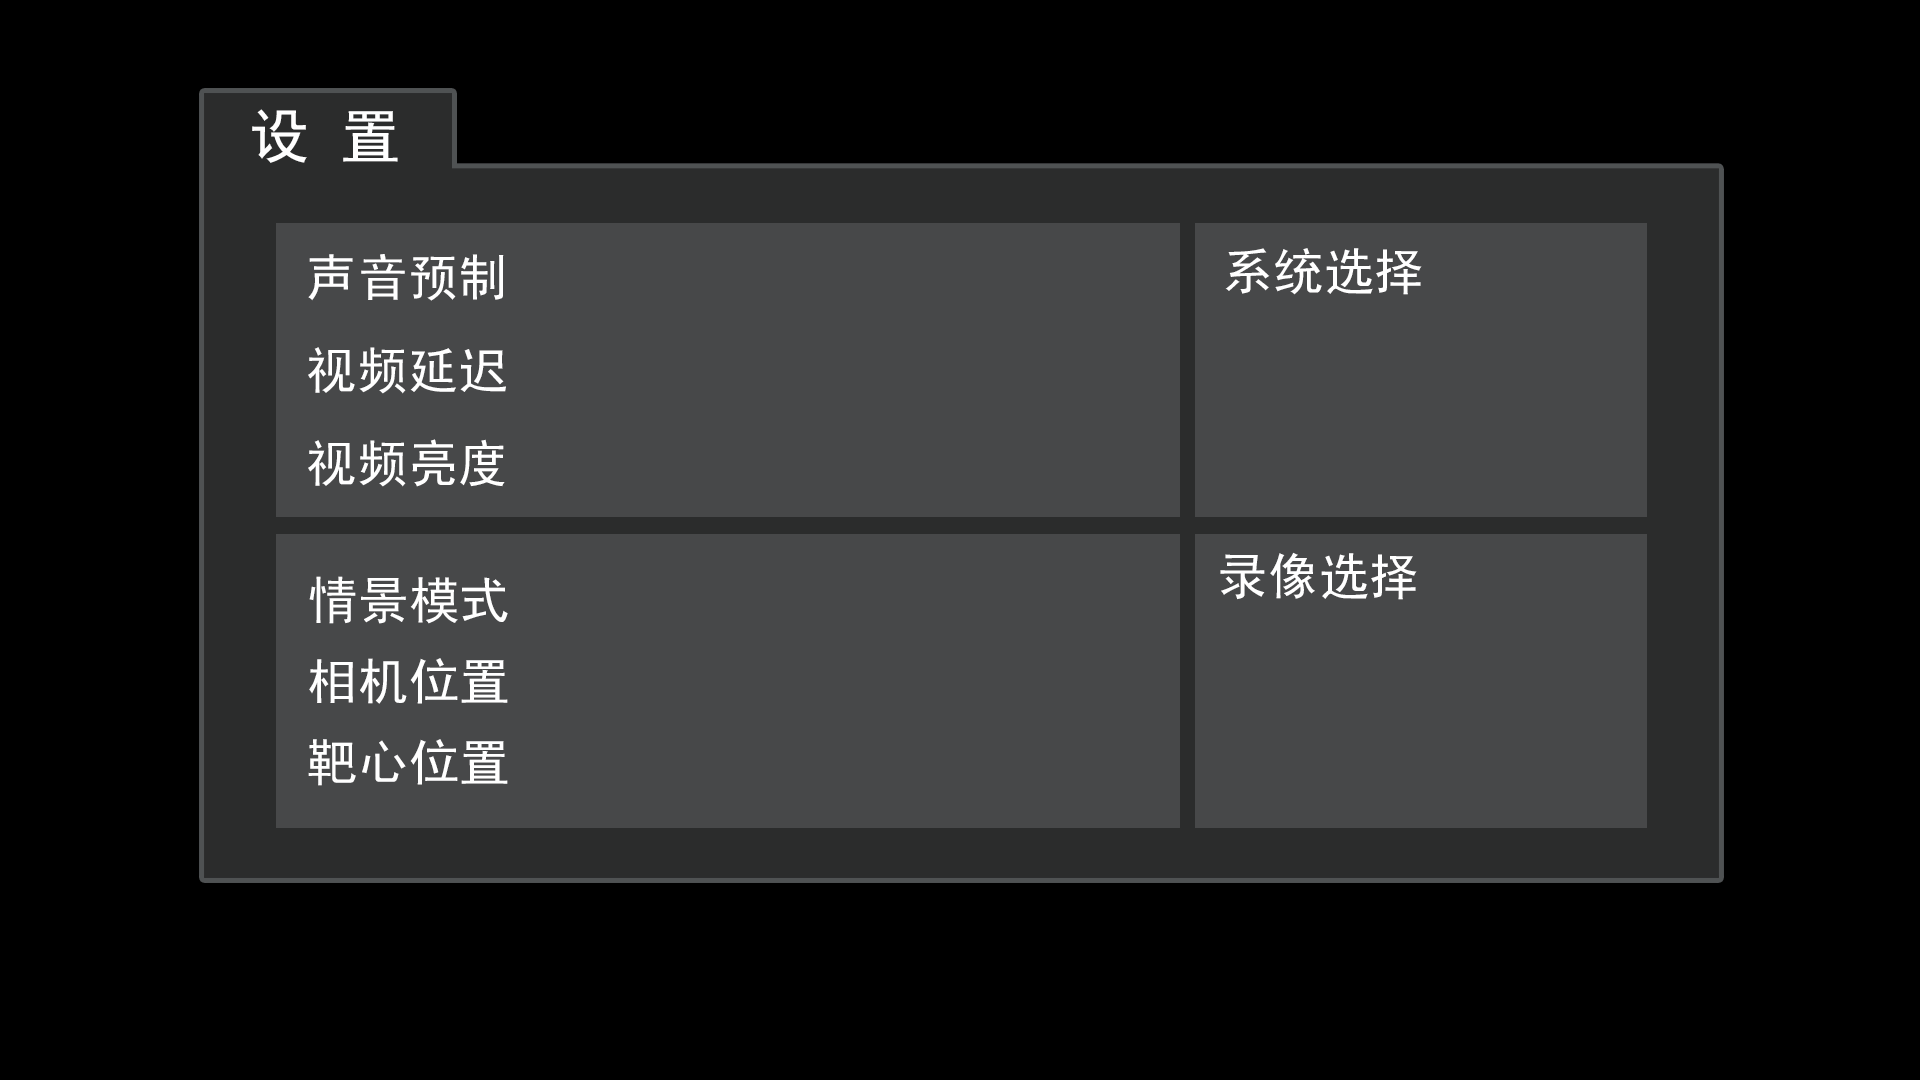
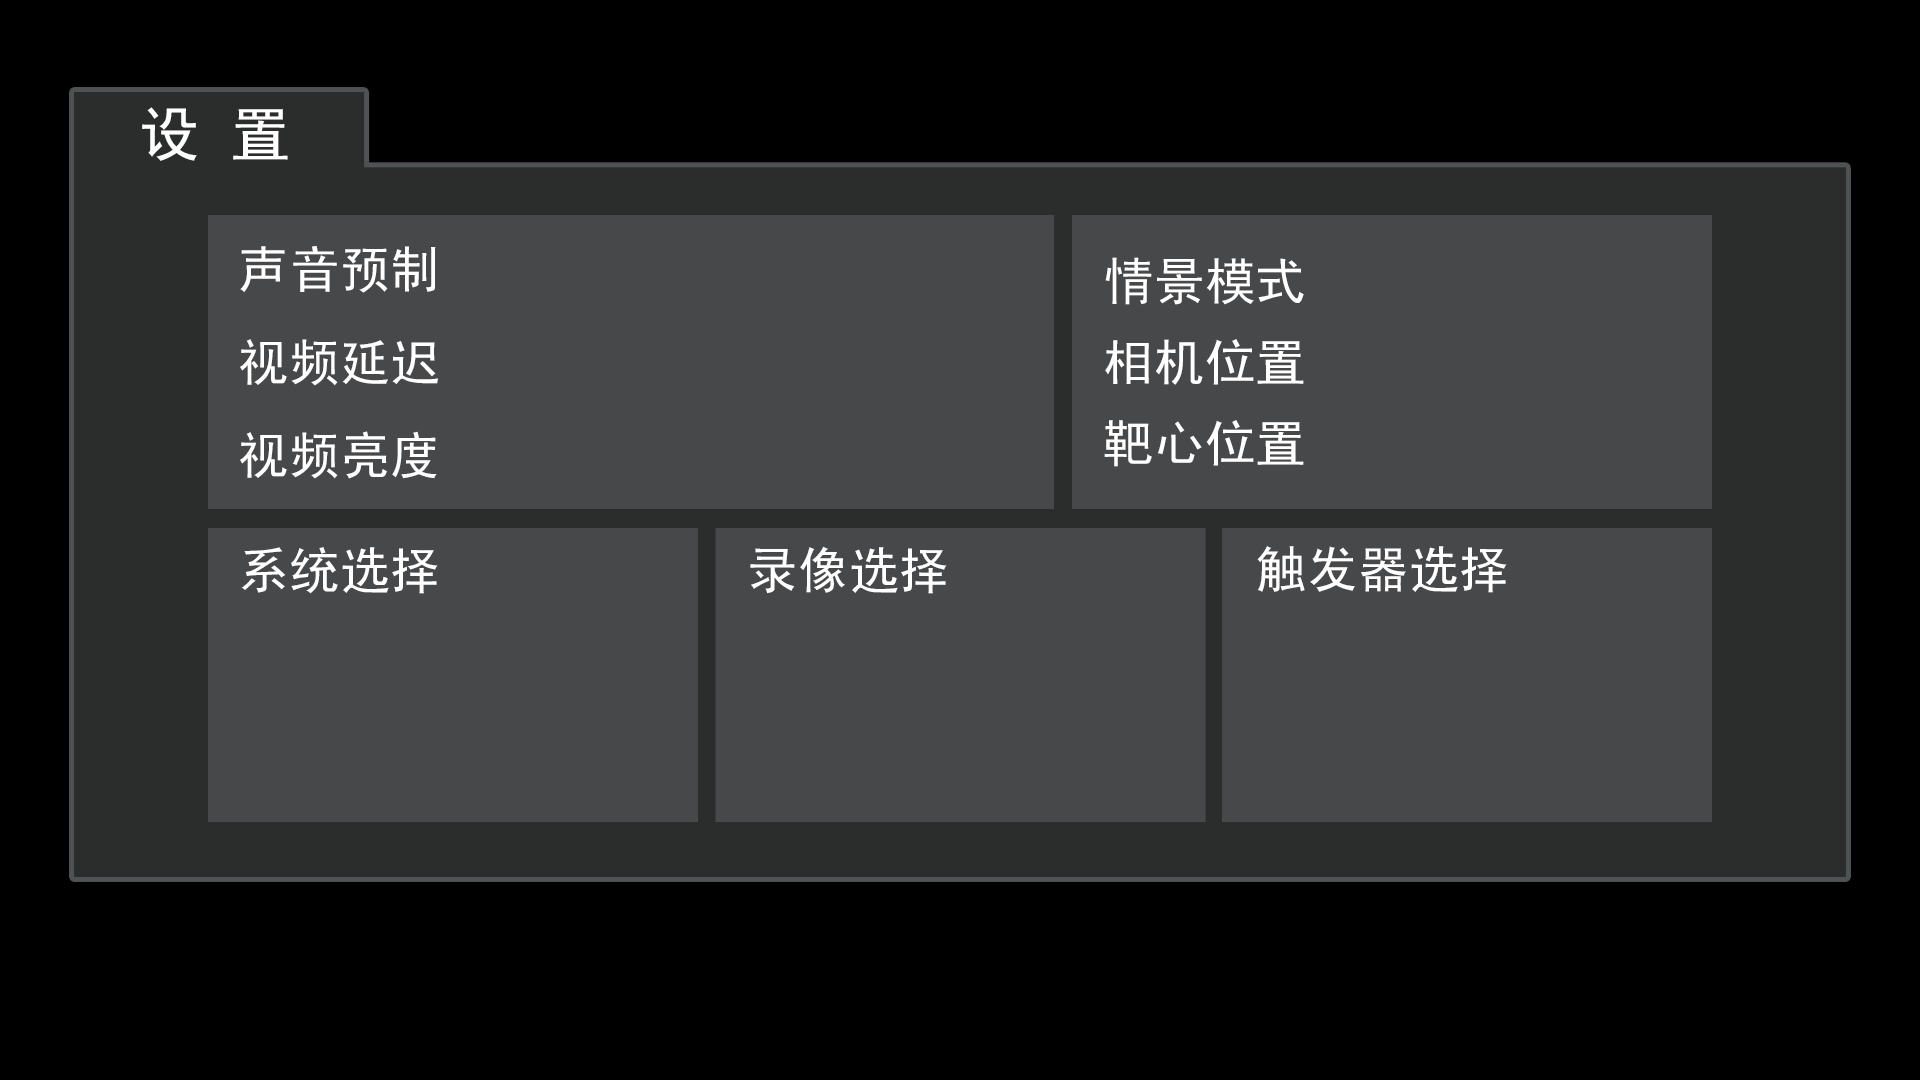
更新设置界面的UI

Changed region(s): [[0.0312, 0.0611, 0.9688, 0.825]]

diff --git a/Classes/MovieVideoLayer.cpp b/Classes/MovieVideoLayer.cpp
@@ -173,11 +173,39 @@ void MovieVideoLayer::RecordOk()
 		m_FrameImageHead = m_Camera->getBufferByIndex(curIndex)->FrameHead;
 		try
 		{
-			CameraImageProcess(m_Camera->m_hCamera,
+			printf("curIndex		= %d\n",curIndex);
+			printf("uBytes			= %d\n",m_FrameImageHead.uBytes);
+			int CameraError = CameraImageProcess(m_Camera->m_hCamera,
 				m_Camera->getBufferByIndex(curIndex)->FrameData,
 				m_pFrameImageRGB,
 				&m_FrameImageHead);
 			swap(m_pFrameImageRGB, m_VideoList[i]);
+			if(CameraError == -6)
+			{
+				printf("curIndex		= %d\n",curIndex);
+				printf("CameraError		= %d\n",CameraError);
+				printf("CameraHandle	= %d\n",m_Camera->m_hCamera);
+				printf("inFrameData		= %x\n",m_Camera->getBufferByIndex(curIndex)->FrameData);
+				printf("outFrameData	= %x\n",m_pFrameImageRGB);
+				printf("--------------------------FrameHead-----------------------------\n");
+				printf("uiMediaType		= %d\n",m_FrameImageHead.uiMediaType);
+				printf("uBytes			= %d\n",m_FrameImageHead.uBytes);
+				printf("iWidth			= %d\n",m_FrameImageHead.iWidth);
+				printf("iHeight			= %d\n",m_FrameImageHead.iHeight);
+				printf("iWidthZoomSw	= %d\n",m_FrameImageHead.iWidthZoomSw);
+				printf("iHeightZoomSw	= %d\n",m_FrameImageHead.iHeightZoomSw);
+				printf("bIsTrigger		= %d\n",m_FrameImageHead.bIsTrigger);
+				printf("uiTimeStamp		= %d\n",m_FrameImageHead.uiTimeStamp);
+				printf("uiExpTime		= %d\n",m_FrameImageHead.uiExpTime);
+				printf("fAnalogGain		= %f\n",m_FrameImageHead.fAnalogGain);
+				printf("iGamma			= %d\n",m_FrameImageHead.iGamma);
+				printf("iContrast		= %d\n",m_FrameImageHead.iContrast);
+				printf("iSaturation		= %d\n",m_FrameImageHead.iSaturation);
+				printf("fRgain			= %f\n",m_FrameImageHead.fRgain);
+				printf("fGgain			= %f\n",m_FrameImageHead.fGgain);
+				printf("fBgain			= %f\n",m_FrameImageHead.fBgain);
+				printf("--------------------------FrameHead------------------------------\n");
+			}
 		}
 		catch (...)
 		{

diff --git a/Classes/websocketMager.cpp b/Classes/websocketMager.cpp
@@ -32,18 +32,18 @@ websocketMager* websocketMager::getInstence()
 	endpoint.start_perpetual();
 
 	websocketpp::lib::shared_ptr<websocketpp::lib::thread> thread = websocketpp::lib::make_shared<websocketpp::lib::thread>(&client::run, &endpoint);
-	//con = endpoint.get_connection("ws://172.17.1.201:8000/", ec);
 	//con = endpoint.get_connection("ws://localhost:8000/", ec);
-	con = endpoint.get_connection("ws://192.168.2.129:8000/", ec);
-
+	//con = endpoint.get_connection("ws://192.168.2.129:8000/", ec);
+	con = endpoint.get_connection("ws://172.17.1.201:8000/", ec);
+	
 	if (ec)
 	{
 		std::cout << "> Connect initialization error: " << ec.message() << std::endl;
 	}
 	int EXT_Id = 0;
 	//metadata_ptr = websocketpp::lib::make_shared<websocketMager>(EXT_Id, con->get_handle(), "ws://localhost:8000/");
-	//metadata_ptr = websocketpp::lib::make_shared<websocketMager>(EXT_Id, con->get_handle(), "ws://172.17.1.201:8000/");
-	metadata_ptr = websocketpp::lib::make_shared<websocketMager>(EXT_Id, con->get_handle(), "ws://192.168.2.129:8000/");
+	//metadata_ptr = websocketpp::lib::make_shared<websocketMager>(EXT_Id, con->get_handle(), "ws://192.168.2.129:8000/");
+	metadata_ptr = websocketpp::lib::make_shared<websocketMager>(EXT_Id, con->get_handle(), "ws://172.17.1.201:8000/");
 
 	con->set_open_handler(websocketpp::lib::bind(
 		&websocketMager::on_open,

diff --git a/Classes/SettingScene.h b/Classes/SettingScene.h
@@ -8,15 +8,14 @@ public:
 	CCControlSlider* m_SerialThresholdSlider;
 	CCControlSlider* m_VideoGainSlider;
 
-	CCLabelTTF* m_VideoSleepLabel;
-	CCLabelTTF* m_SerialThresholdLabel;
-	CCLabelTTF* m_VideoGainLabel;
-
 	CCMenuItemImage* m_pDemoVideo;
 	CCMenuItemImage* m_pSelfVideo;
 
 	CCMenuItemImage* m_pFrames60;
 	CCMenuItemImage* m_pFrames300;
+
+	CCMenuItemImage* m_pSerialP;
+	CCMenuItemImage* m_pDigitTrak;
 public:
 	static CCScene* getScene();
 	CREATE_FUNC(SettingScene);
@@ -27,6 +26,7 @@ public:
 	void menuEnterCallBack(CCObject* obj);
 	void menuVideoCallBack(CCObject* obj);
 	void menuFramesCallBack(CCObject* obj);
+	void menuDigitTrakCallBack(CCObject* obj);
 	void SetCameraCallBack(CCObject* obj);
 	void SetQingjingCallBack(CCObject* obj);
 	virtual void onExit();

diff --git a/Classes/LodingScene.cpp b/Classes/LodingScene.cpp
@@ -4,6 +4,8 @@
 #include "MovieVideoLayer.h"
 #include "RecordClass.h"
 #include "ResetGGMager.h"
+#include "websocketMager.h"
+#include "SerialMager.h"
 
 
 RecordClass* MovieVideoLayer::m_Camera1 = NULL;
@@ -27,6 +29,9 @@ bool LodingScene::init()
 	{
 		return false;
 	}
+	websocketMager::getInstence();
+	SerialMager::getInstence();
+
 	Ext_cameraNum = 2;
 
 	tSdkCameraDevInfo	cameraInfo[2] = { NULL };
@@ -79,7 +84,7 @@ bool LodingScene::init()
 		Ext_StepNum = doc["StepNum"].GetInt();
 		Ext_FFmpegStep = doc["FFmpegStep"].GetInt();
 		Ext_FrameRate = doc["FrameRate"].GetInt();
-		Ext_IsTurnCamera = doc["TurnCamera"].GetBool();
+		//Ext_IsTurnCamera = doc["TurnCamera"].GetBool();
 	}
 	if(Ext_FrameRate == 300)
 	{

diff --git a/Classes/Tools.cpp b/Classes/Tools.cpp
@@ -26,7 +26,7 @@ extern bool Ext_IsDemoVideo = true;
 extern bool Ext_Is300Frames = false;
 extern bool Ext_IsExpose = false;
 extern bool Ext_IsIndoor = false;
-extern bool Ext_IsDigitTrak = true;
+extern bool Ext_IsDigitTrak = false;
 
 string GBKToUTF8(const string& strGBK)
 {

diff --git a/Classes/SerialMager.cpp b/Classes/SerialMager.cpp
@@ -38,6 +38,7 @@ bool SerialMager::init()
 	int index = GetLastError();
 	if (!hDll)
 	{
+		printf("SerialDllError = %d\n",index);
 		return false;
 	}
 	get_com_port = (GET_COM)GetProcAddress(hDll, (LPCSTR)"?get_com_port@@YA_NPEAPEADAEAH@Z");
